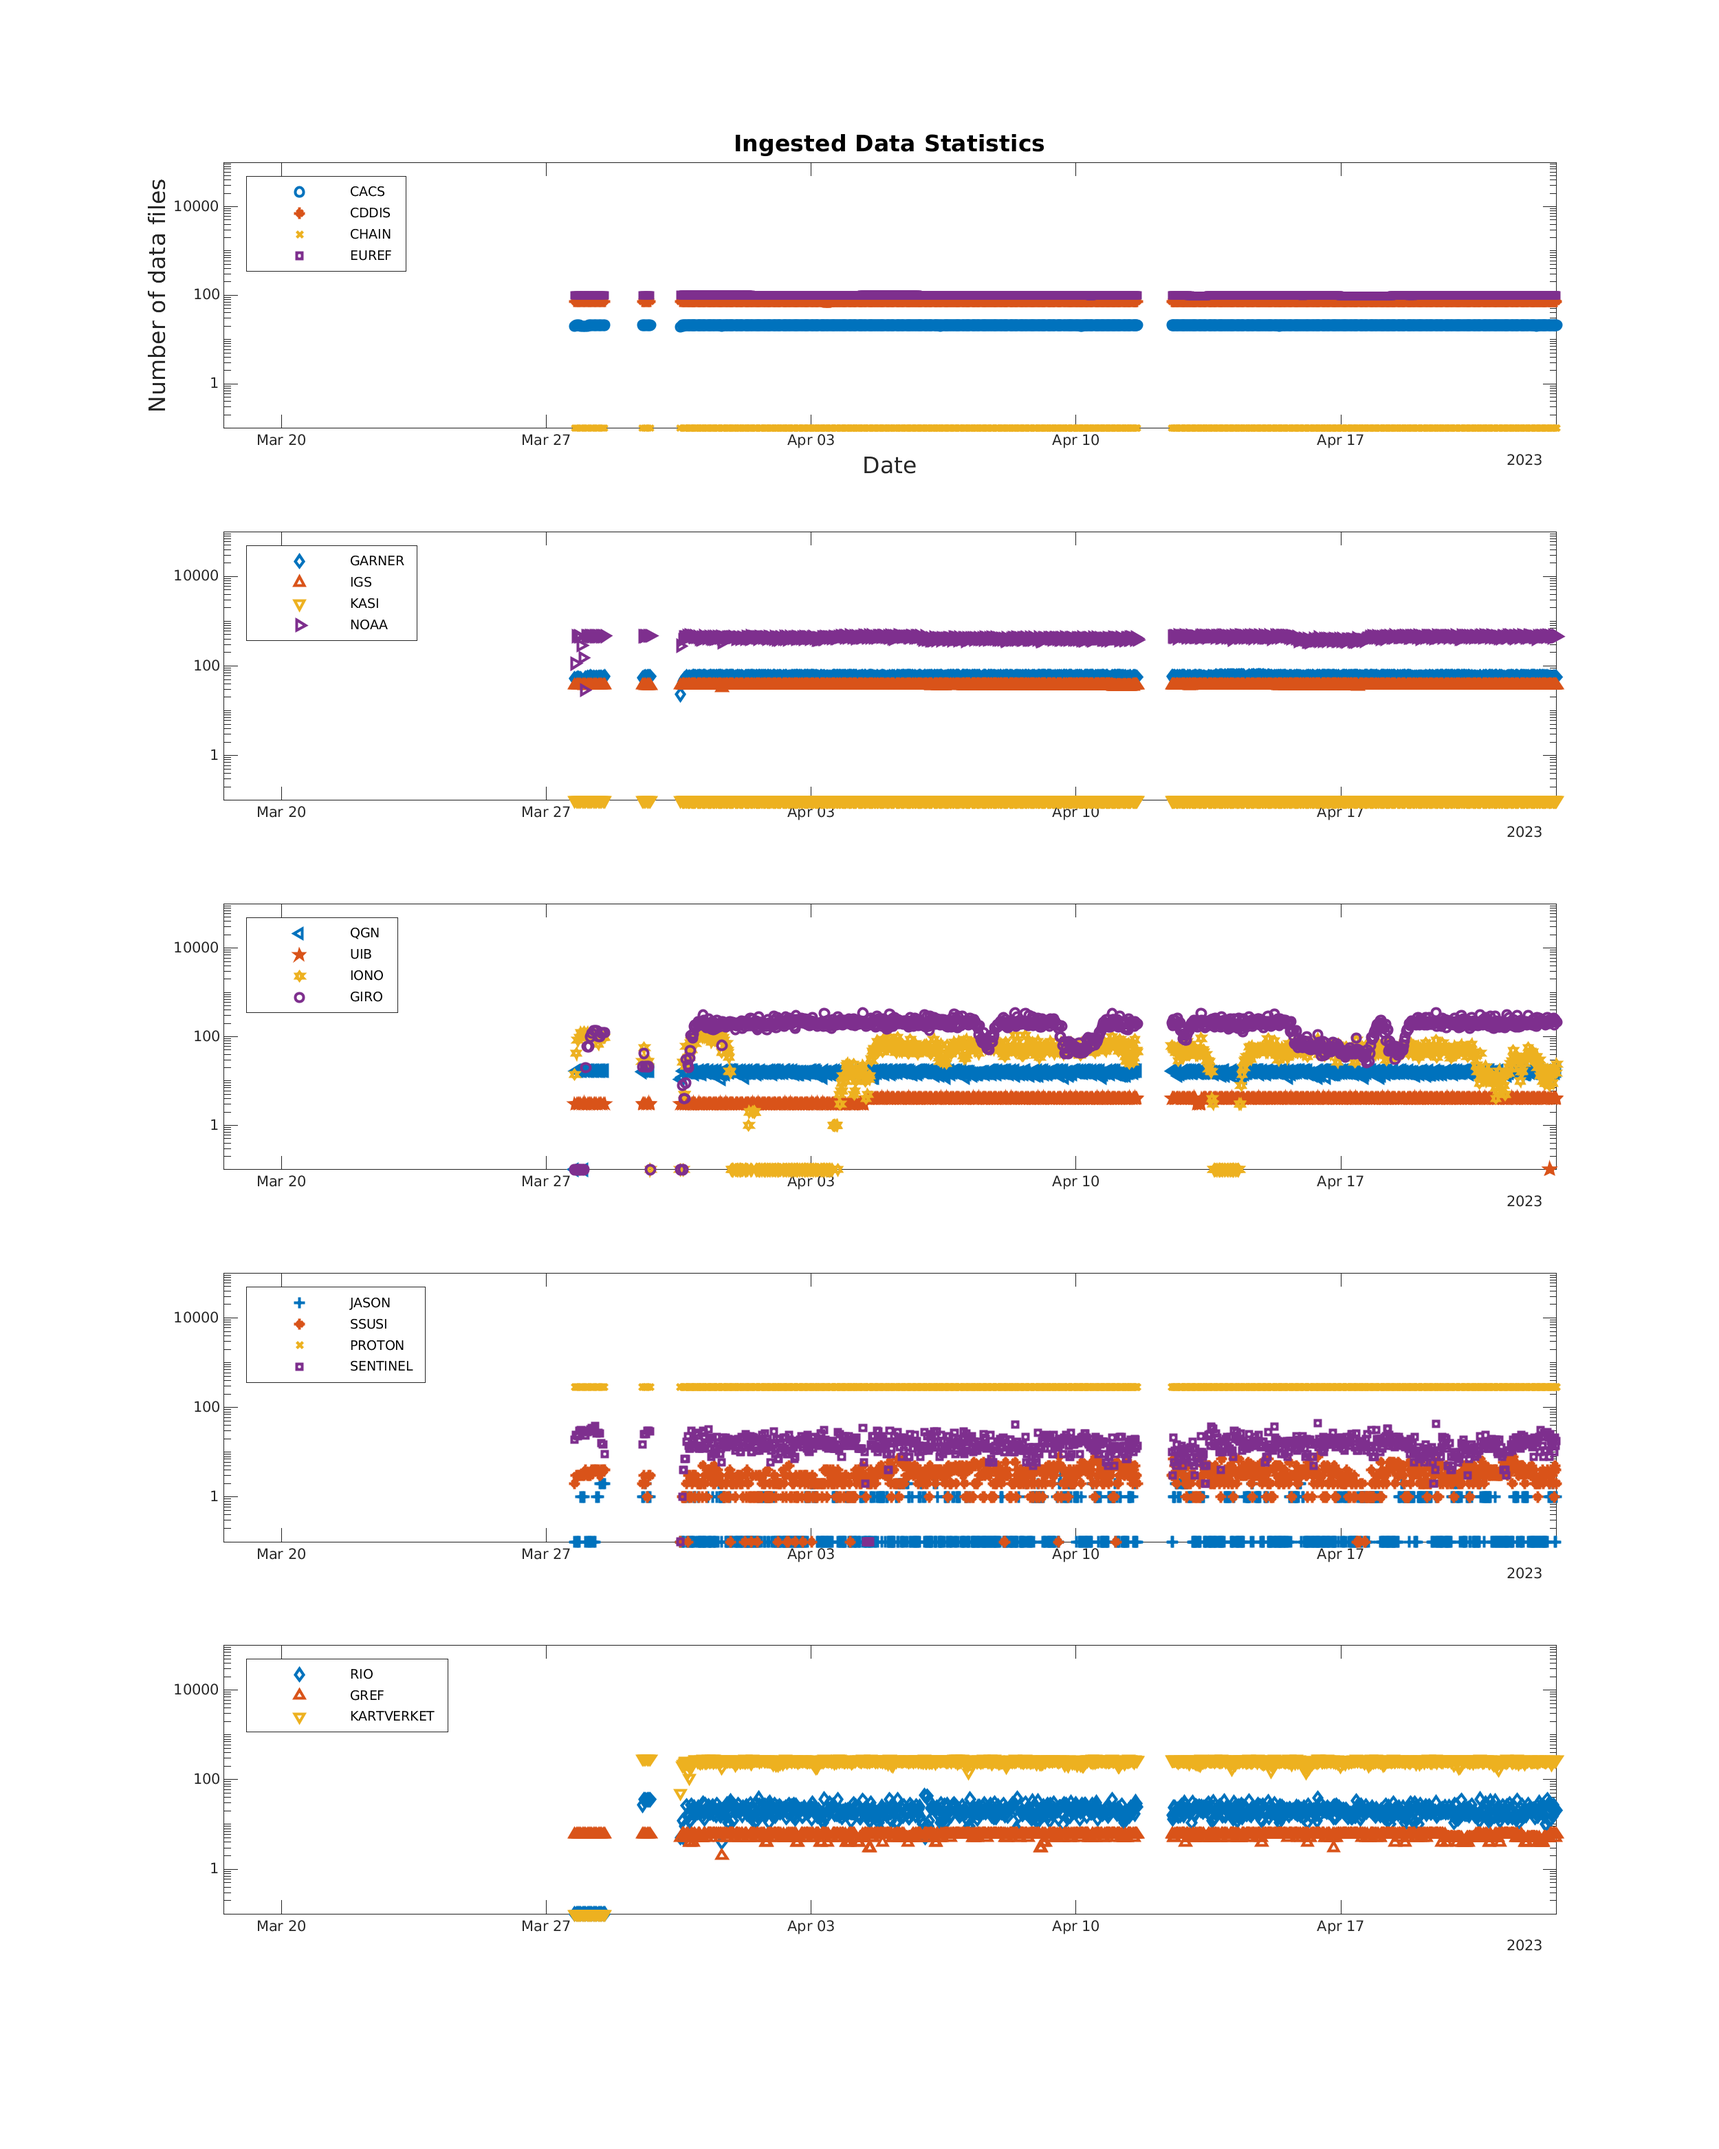
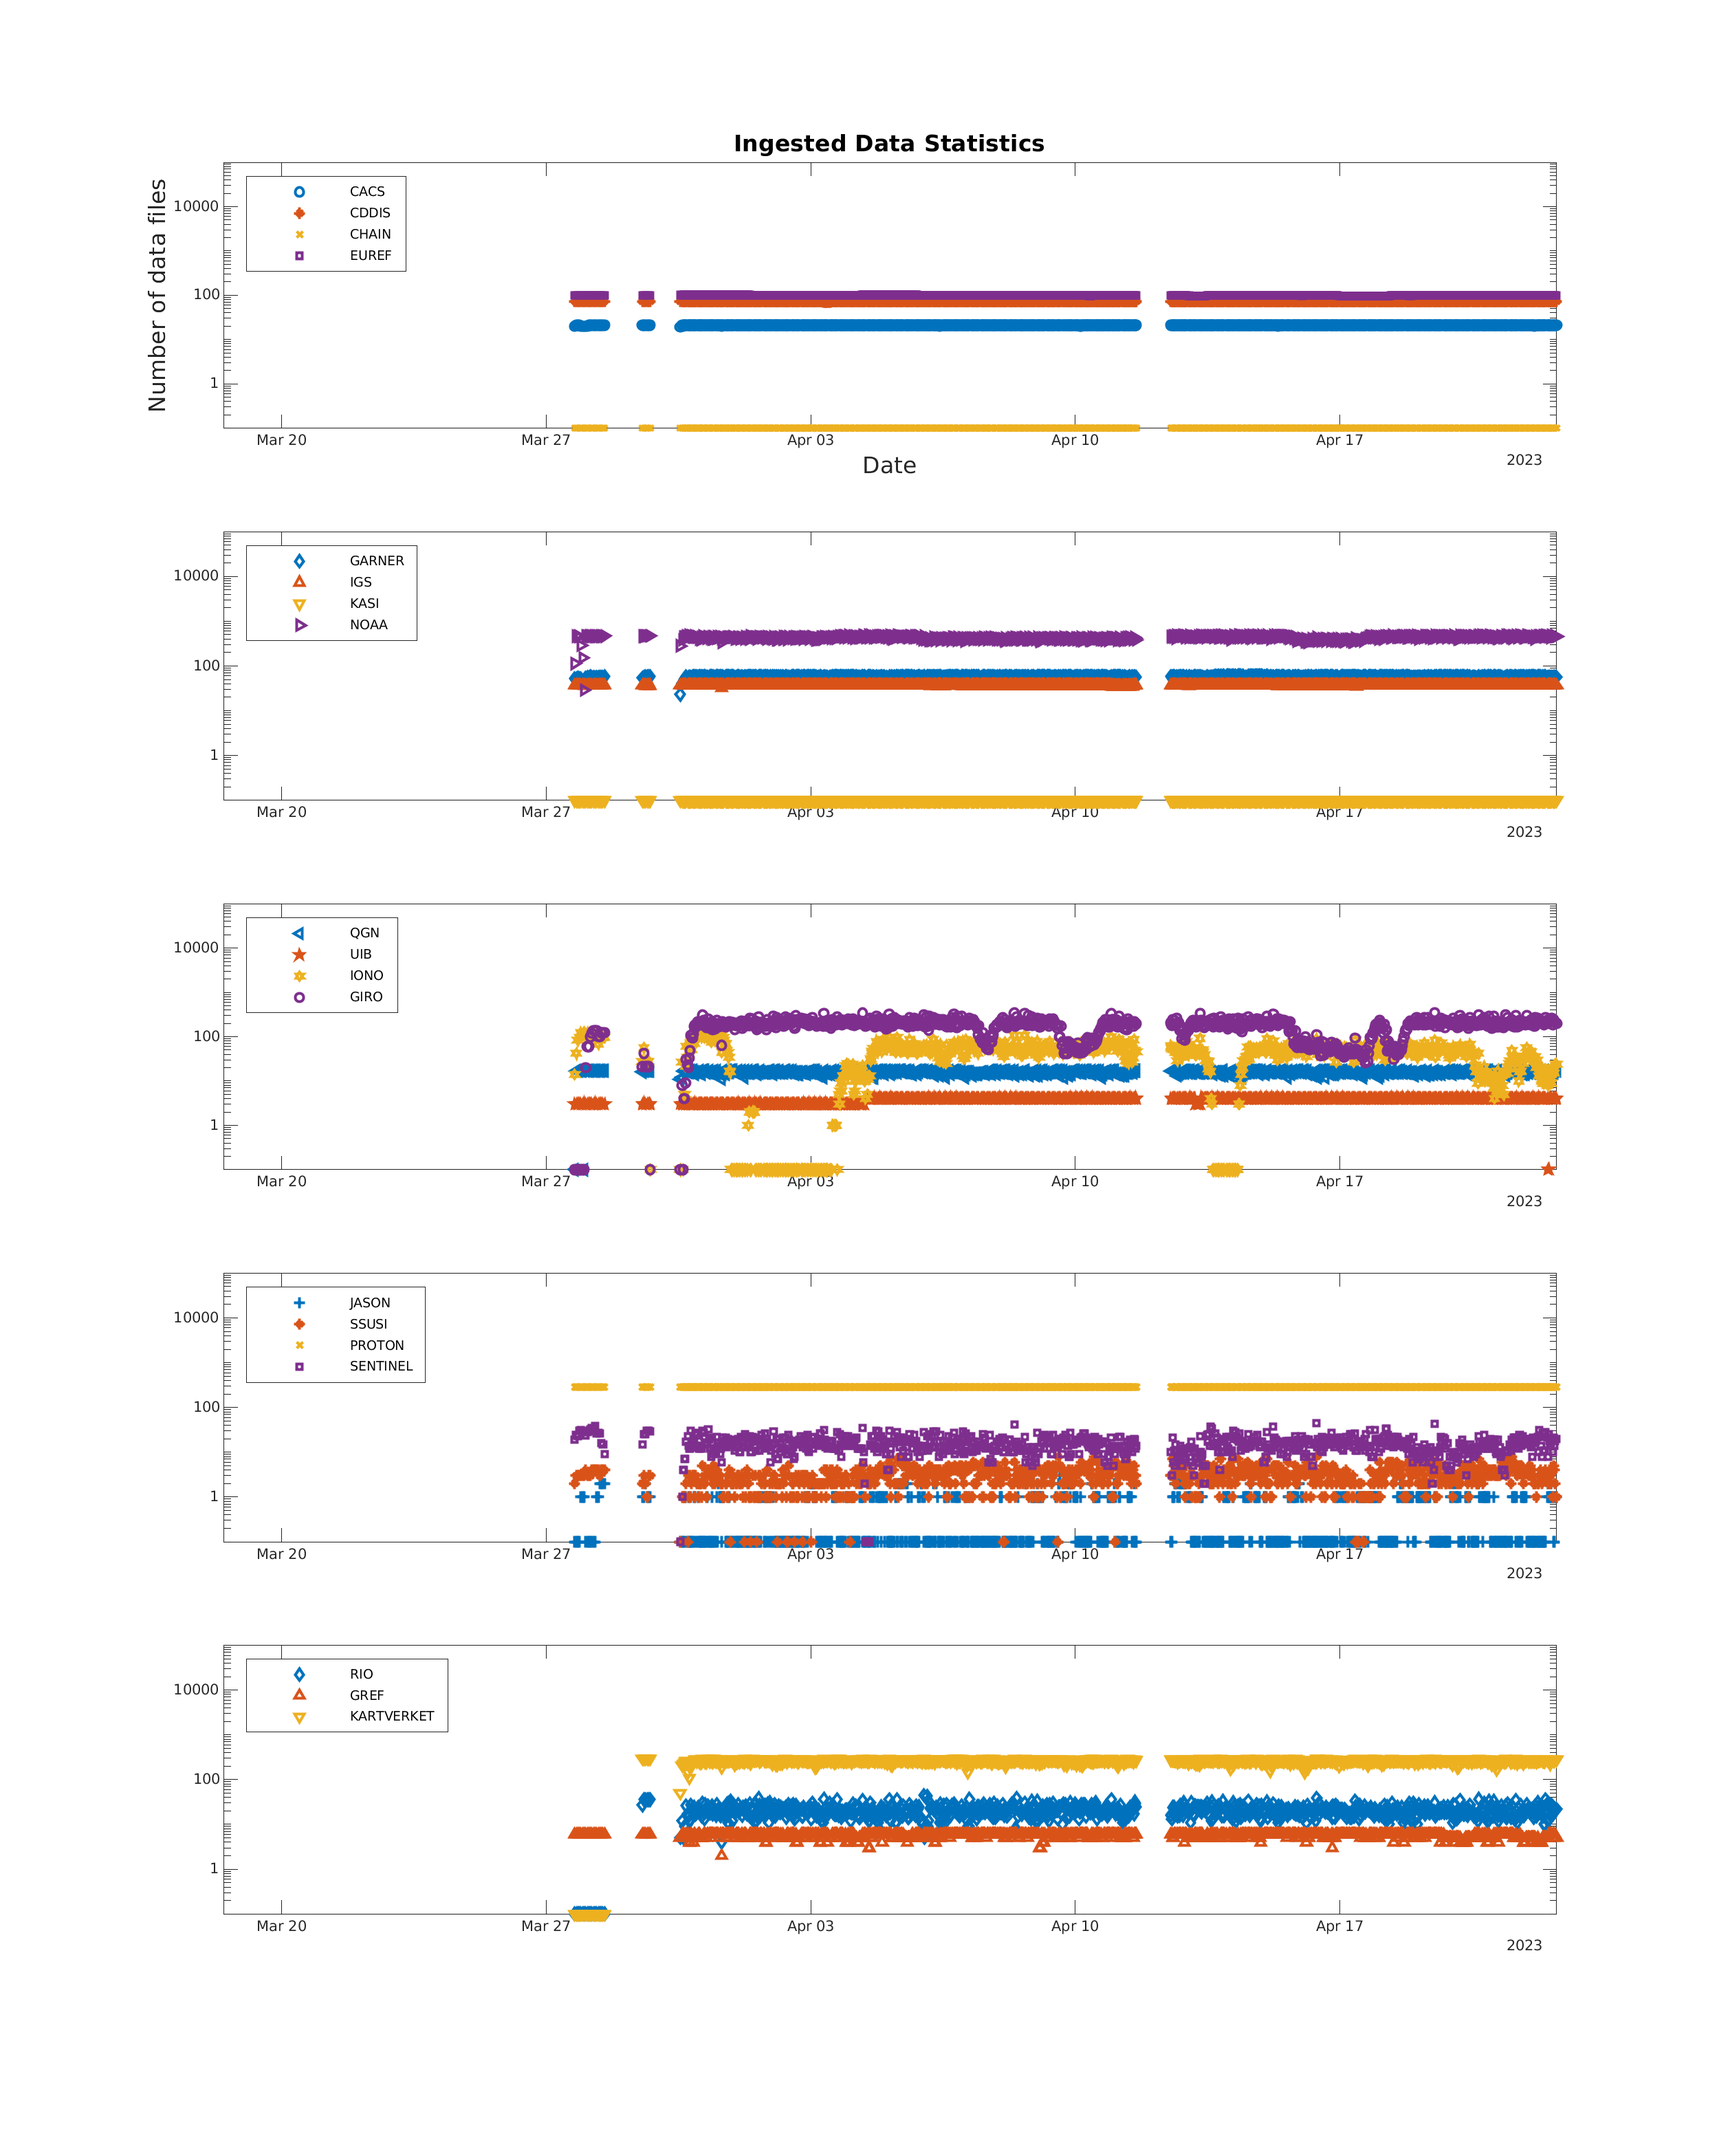
update 2023-04-22 18:14:53

diff --git a/_posts/2023-04-22-17-50-20.md b/_posts/2023-04-22-17-50-20.md
@@ -1,8 +1,8 @@
 ---
 layout: post
-title: "2023-04-22 17:20:22"
+title: "2023-04-22 17:50:20"
 subtitle: "ModelData Issues: 3; A-CHAIM System Issues: 1"
-
+permalink: /latest/
 ---
 
 ![]({{ "/assets/img/achaimDataStatsShort-2311217.png" | relative_url }})
@@ -17,11 +17,11 @@ subtitle: "ModelData Issues: 3; A-CHAIM System Issues: 1"
 ### ModelData Issues:  
   
 {: .box-warning}  
- ModelData report for 22-Apr-2023 17:20:09   
+ ModelData report for 22-Apr-2023 17:50:09   
  /home/chaim/ACHAIM_SERVER/A-CHAIM/modelData/2023/112/17/modelData.mat   
- 10.5263% of IONO foF2 data is non-zero and finite.   
- 0% of all possible stations for KASI were downloaded. x2174   
- 0% of all possible stations for CHAIN were downloaded. x1135   
+ 16.6667% of IONO foF2 data is non-zero and finite.   
+ 0% of all possible stations for KASI were downloaded. x2175   
+ 0% of all possible stations for CHAIN were downloaded. x1136   
   
 ### A-CHAIM System Issues:  
   
